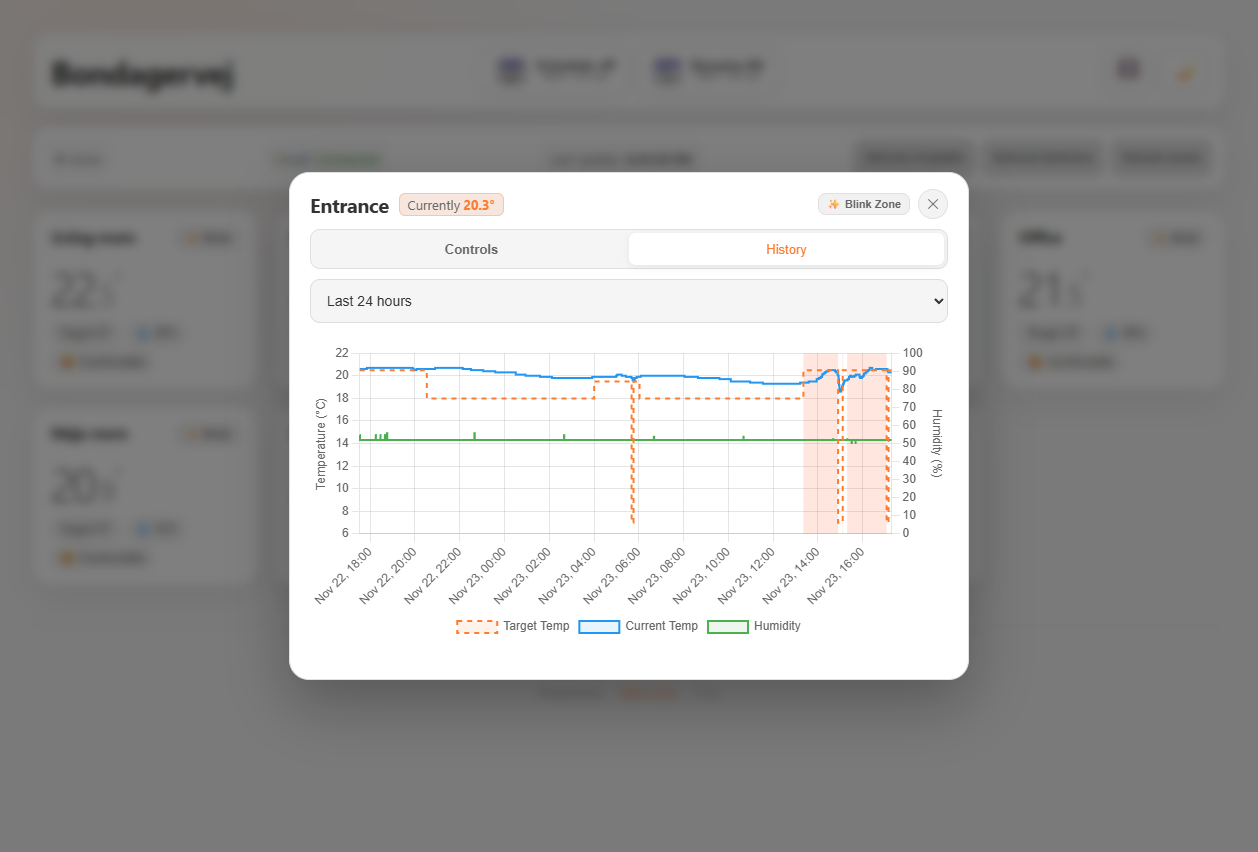
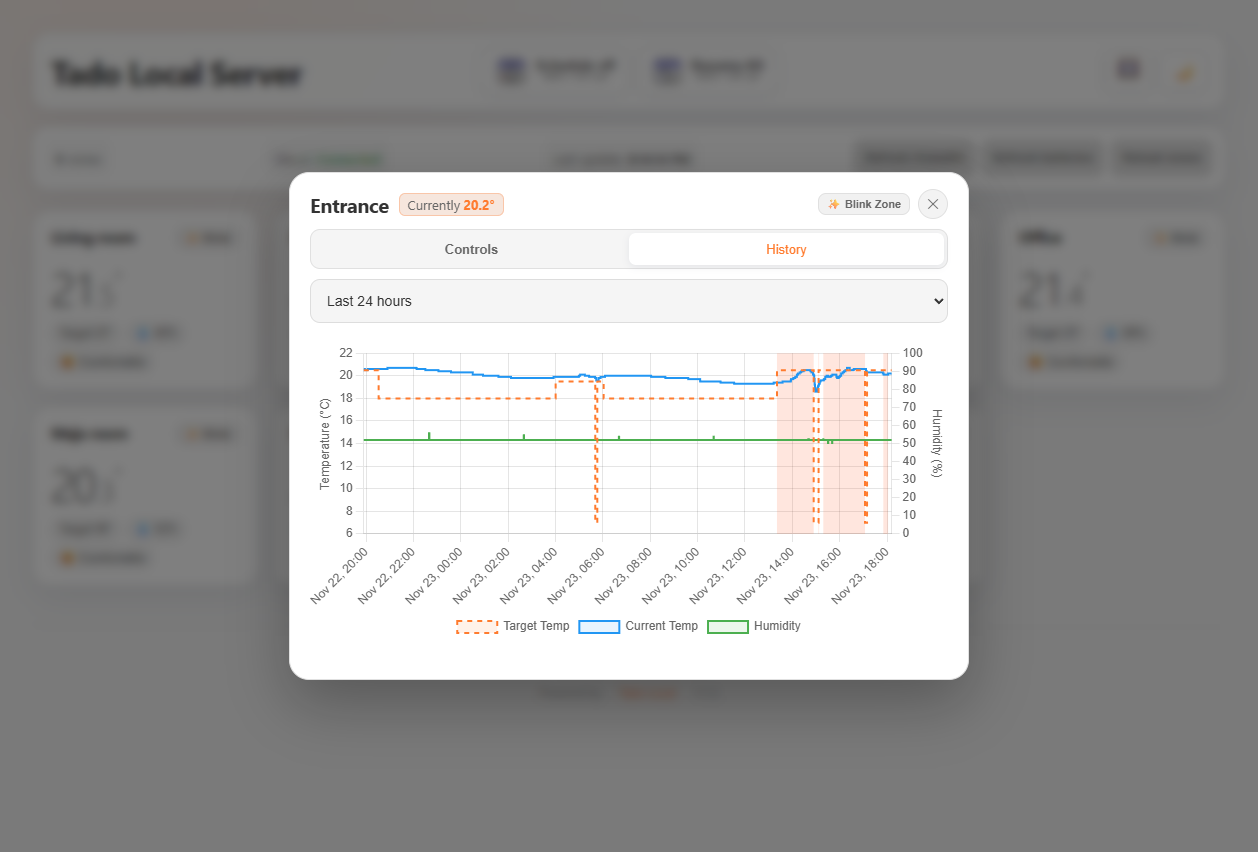
feat: Add configurable HOME_NAME, allow click-to-rename in UI, and update screenshots to Tado Local Server

Changed region(s): [[0.248, 0.3967, 0.713, 0.7019], [0.186, 0.061, 0.248, 0.1221], [0.093, 0.061, 0.124, 0.0915]]

diff --git a/tado_local/static/index.html b/tado_local/static/index.html
@@ -1589,7 +1589,7 @@
     <div class="container">
         <div class="header">
             <div class="header-left">
-                <h1 id="home-name">Tado Local</h1>
+                <h1 id="home-name">Tado Local Server</h1>
             </div>
             
             <div class="header-center">
@@ -2109,11 +2109,11 @@
                     } catch (e) {}
                 }
                 
-                // Update home name and page title if available (use first home)
-                if (data.homes && data.homes.length > 0 && data.homes[0].name) {
-                    document.getElementById('home-name').textContent = data.homes[0].name;
-                    document.title = `${data.homes[0].name} - Tado Local`;
-                }
+                // Update home name and page title if available (supports custom override or first home)
+                const customHomeName = localStorage.getItem('tado_custom_home_name');
+                const displayName = customHomeName || (data.homes && data.homes.length > 0 && data.homes[0].name) || 'Tado Local Server';
+                document.getElementById('home-name').textContent = displayName;
+                document.title = `${displayName} - Tado Local`;
                 
                 renderZones();
                 updateStatus(data);
@@ -2801,6 +2801,25 @@
         applyWindowStatus();
 
         // Add theme toggle listener
+        // Home name click to rename
+        const homeNameEl = document.getElementById('home-name');
+        if (homeNameEl) {
+            homeNameEl.style.cursor = 'pointer';
+            homeNameEl.title = 'Click to rename home display name';
+            homeNameEl.addEventListener('click', () => {
+                const current = homeNameEl.textContent;
+                const newName = prompt('Enter custom name for your home (leave empty to reset):', current);
+                if (newName !== null) {
+                    if (newName.trim()) {
+                        localStorage.setItem('tado_custom_home_name', newName.trim());
+                    } else {
+                        localStorage.removeItem('tado_custom_home_name');
+                    }
+                    loadZones();
+                }
+            });
+        }
+
         document.getElementById('theme-toggle').addEventListener('click', () => {
             const current = getEffectiveTheme();
             const next = current === 'dark' ? 'light' : 'dark';

diff --git a/tado_local/routes.py b/tado_local/routes.py
@@ -616,16 +616,24 @@ def register_routes(app: FastAPI, get_tado_api, setup_state=None, start_pairing=
 
         # Get home info if cloud API is available and authenticated
         homes = []
+        override_home_name = os.getenv('TADO_HOME_NAME') or os.getenv('HOME_NAME')
         if hasattr(tado_api, 'cloud_api') and tado_api.cloud_api and tado_api.cloud_api.is_authenticated():
             try:
                 home_data = await tado_api.cloud_api.get_home_info()
                 if home_data:
+                    home_name = override_home_name if override_home_name else home_data.get('name')
                     homes.append({
                         'id': home_data.get('id'),
-                        'name': home_data.get('name')
+                        'name': home_name
                     })
             except Exception as e:
                 logger.debug(f"Could not fetch home info: {e}")
+
+        if not homes and override_home_name:
+            homes.append({
+                'id': 1,
+                'name': override_home_name
+            })
 
         # Add home_id reference to each zone (from first/only home for now)
         home_id = homes[0]['id'] if homes else None
@@ -969,16 +977,24 @@ def register_routes(app: FastAPI, get_tado_api, setup_state=None, start_pairing=
 
         # Get home info if cloud API is available and authenticated
         homes = []
+        override_home_name = os.getenv('TADO_HOME_NAME') or os.getenv('HOME_NAME')
         if hasattr(tado_api, 'cloud_api') and tado_api.cloud_api and tado_api.cloud_api.is_authenticated():
             try:
                 home_data = await tado_api.cloud_api.get_home_info()
                 if home_data:
+                    home_name = override_home_name if override_home_name else home_data.get('name')
                     homes.append({
                         'id': home_data.get('id'),
-                        'name': home_data.get('name')
+                        'name': home_name
                     })
             except Exception as e:
                 logger.debug(f"Could not fetch home info: {e}")
+
+        if not homes and override_home_name:
+            homes.append({
+                'id': 1,
+                'name': override_home_name
+            })
 
         # Add home_id reference to each zone (from first/only home for now)
         home_id = homes[0]['id'] if homes else None

diff --git a/README.md b/README.md
@@ -134,6 +134,7 @@ docker run -d \
 
 | Variable | Default | Description |
 |---|---|---|
+| `HOME_NAME` | `Tado Local Server` | Custom display name for your home in the Web UI (can also be changed directly by clicking the title in the browser). |
 | `EXTERNAL_PORT` | `4407` | Host port mapped to the container (used for accurate mDNS zeroconf advertisement). |
 | `PURGE_DAYS` | `30` | Auto-purges history data older than this number of days from the SQLite database. |
 | `TADO_BRIDGE_IP` | *auto* | IP address of your Tado Internet Bridge (optional; mDNS discovers it automatically). |
